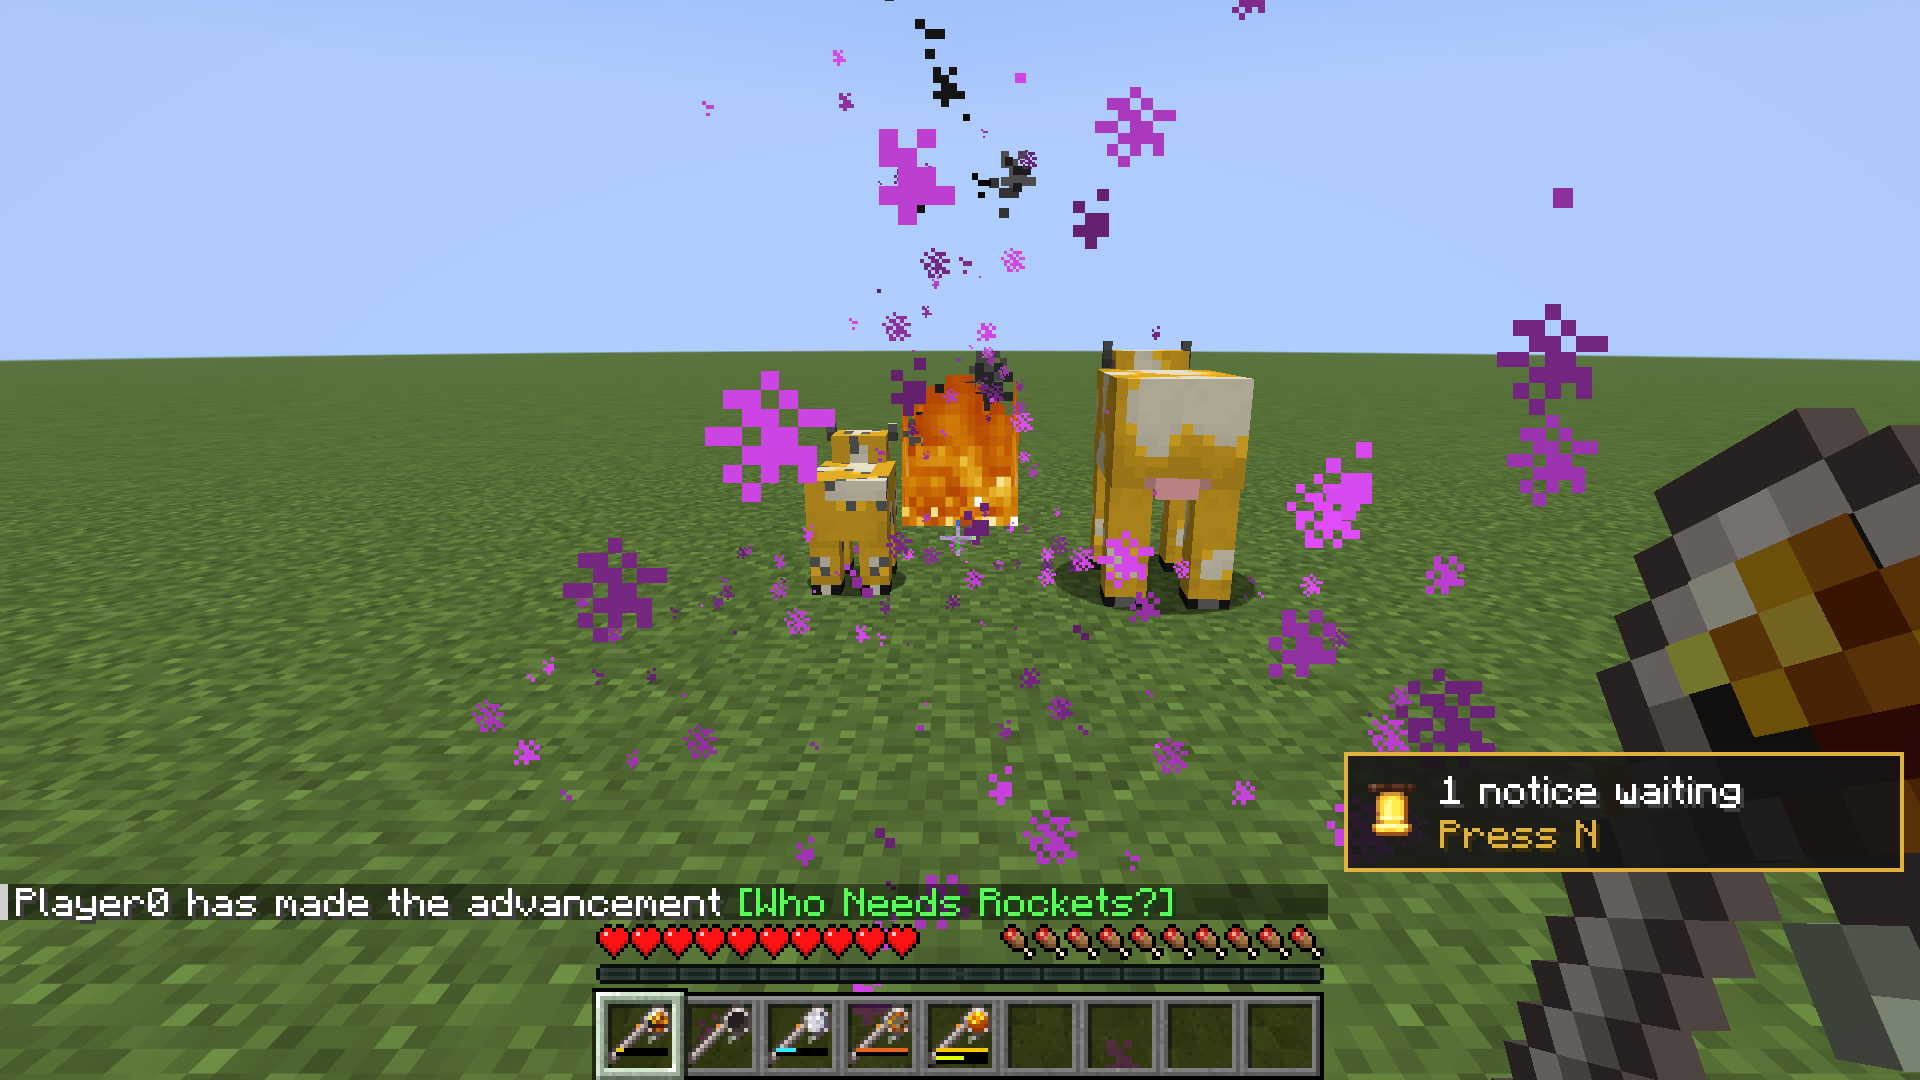
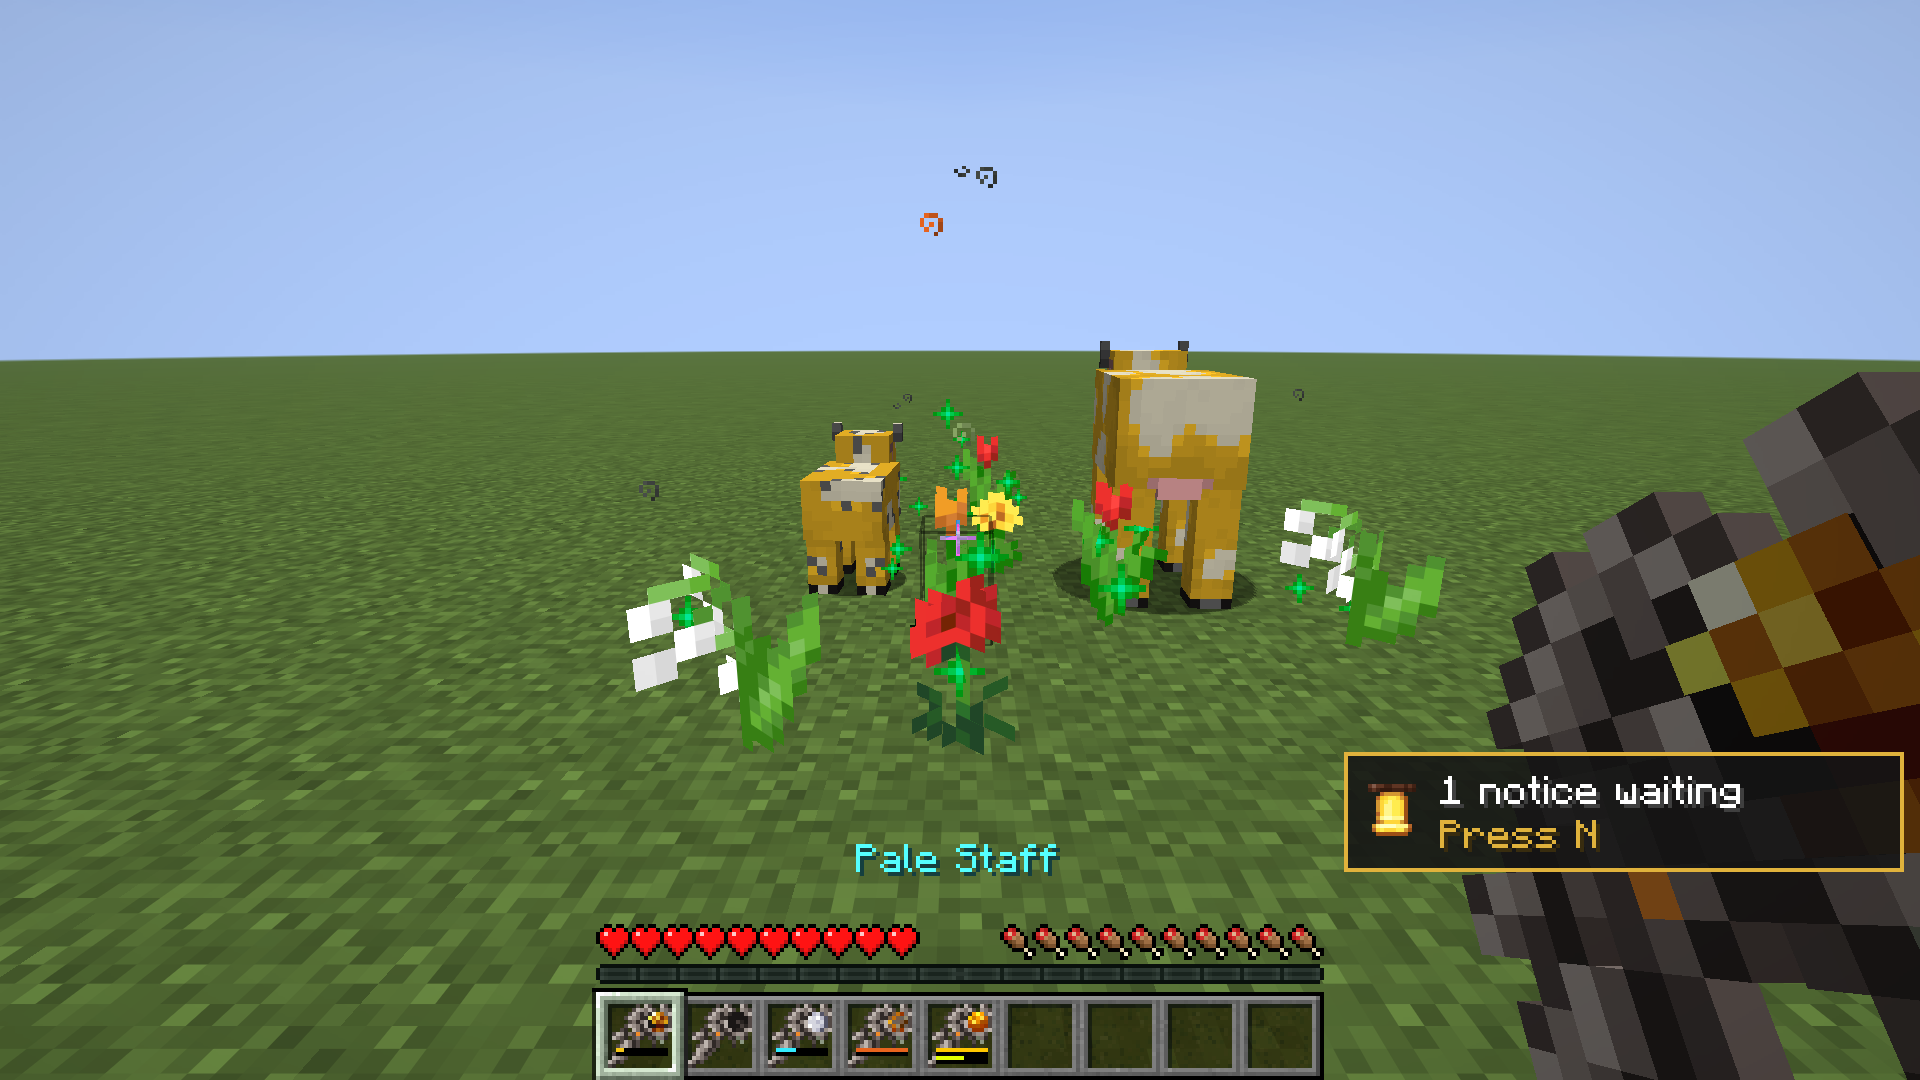
a gnarled staff, its head a root ball clutching the socket

diff --git a/generate_textures.py b/generate_textures.py
@@ -13,7 +13,7 @@ the staff's scale. Anything else, a block or an ingredient from another mod, is 
 in the imbuement's colour.
 
 The moobloom, the cow a golden dandelion bolt makes, is the game's own cow repainted. The icon is
-the staff with a golden dandelion set, on darkened pale oak bark.
+the staff with a golden dandelion set, on darkened pale moss.
 
 The charge bar sits two pixels above where the game draws durability, the same thirteen pixels
 wide, so the two read as a pair. Its fill is white and tinted with the imbuement's colour; there
@@ -39,34 +39,37 @@ MODELS = ASSETS / "models/item"
 
 PALETTE = {
 	".": None,
-	"o": (0x4f, 0x45, 0x42),  # bark outline
-	"d": (0x8f, 0x82, 0x7d),  # shaft shadow
-	"l": (0xc9, 0xbe, 0xb8),  # pale oak
-	"w": (0xec, 0xe6, 0xe2),  # highlight
+	"x": (0x30, 0x29, 0x27),  # crevice
+	"o": (0x52, 0x48, 0x45),  # bark in shadow
+	"d": (0x7c, 0x71, 0x6c),  # bark
+	"m": (0x9c, 0x91, 0x8b),  # bark, half lit
+	"l": (0xbd, 0xb3, 0xad),  # pale oak, lit
+	"w": (0xd9, 0xd2, 0xcd),  # highlight
 	"R": (0xf0, 0x8a, 0x2a),  # resin
-	"m": (0x7c, 0x86, 0x74),  # pale moss
-	"M": (0xa3, 0xad, 0x99),  # pale moss, lit
-	"s": (0x24, 0x1f, 0x1e),  # socket, in shadow
-	"S": (0x3a, 0x33, 0x31),  # socket, catching light
+	"g": (0x8c, 0x97, 0x82),  # pale moss, lit
+	"G": (0x6f, 0x79, 0x66),  # pale moss
+	"S": (0x1a, 0x16, 0x15),  # the hollow, deep
+	"s": (0x2a, 0x24, 0x22),  # the hollow, shallower
+	"h": (0x46, 0x3d, 0x3a),  # a root hair across it
 }
 
 STAFF = """
-...........ooo..
-..........olwlo.
-.........olssslo
-........olssssSo
-........odssssSo
-.......RldsssSSo
-......oldolSSSlo
-.....oldo..ooo..
-....oldo..mMo...
-...oldo...m.....
-..oldo..........
-.oldo...........
-oldo............
-odo.............
-oo..............
-................
+.......o.lo..lo.
+......olmdlo.mdo
+.....oldxdxSSSdl
+....olmdxxSSSSSo
+.....odxdlSShsSo
+....olmdxlSSShso
+...ox.ldxomSssml
+.olmxdoRdxxdmmo.
+.ldox.odx.oxGdx.
+...oldxo...o.g..
+..omldxo...x....
+..lmdxo.........
+.oldxo..........
+.lmdo...........
+ldxo............
+ox..............
 """
 
 # The socket's pixels: five across, corners cut. Rows 2 to 6, columns 10 to 14.
@@ -316,15 +319,15 @@ def moobloom(cow):
 
 
 def icon(jar):
-	"""The staff with a golden dandelion set, on the bark of the pale oak it is cut from, darkened so
-	the pale wood stands off it. Filled to the edge, as most of the suite's icons are, so it holds
-	its own in a list of them."""
-	bark = jar.texture_full("minecraft:block/pale_oak_log").crop((0, 0, 16, 16))
+	"""The staff with a golden dandelion set, on the pale moss of the garden floor, darkened so the
+	pale wood stands off it; bark behind bark lost the staff. Filled to the edge, as most of the
+	suite's icons are, so it holds its own in a list of them."""
+	moss = jar.texture_full("minecraft:block/pale_moss_block").crop((0, 0, 16, 16))
 	frame = Image.new("RGBA", (16, 16))
 	for x in range(16):
 		for y in range(16):
-			r, g, b, a = bark.getpixel((x, y))
-			frame.putpixel((x, y), (r * 45 // 100, g * 45 // 100, b * 45 // 100, 255))
+			r, g, b, a = moss.getpixel((x, y))
+			frame.putpixel((x, y), (r * 55 // 100, g * 55 // 100, b * 55 // 100, 255))
 	frame.alpha_composite(socketed(jar, "golden_dandelion"))
 	return frame.resize((128, 128), Image.NEAREST)
 

diff --git a/src/gametest/java/justfatlard/pale_staff/gametest/StaffWorks.java b/src/gametest/java/justfatlard/pale_staff/gametest/StaffWorks.java
@@ -84,6 +84,13 @@ public final class StaffWorks implements FabricClientGameTest {
 			server.runOnServer(s -> flame(s, connection.getServerPlayer(), origin));
 			server.runOnServer(s -> meadow(s.overworld(), origin));
 			server.runOnServer(s -> bloom(s, connection.getServerPlayer(), origin));
+
+			// The picture before anything noisier: no portal mist, no advancement toasts.
+			server.runOnServer(s -> showcase(s, connection.getServerPlayer(), origin));
+			server.runCommand("tp @a %d %d %d 0 15".formatted(origin.getX(), origin.getY(), origin.getZ() - 1));
+			context.waitTicks(30);
+			context.takeScreenshot(TestScreenshotOptions.of("bloom").withSize(1920, 1080).disableCounterPrefix());
+			server.runOnServer(s -> s.overworld().getEntitiesOfClass(Cow.class, new AABB(origin).inflate(10)).forEach(Entity::discard));
 			server.runOnServer(s -> meadow(s.overworld(), origin));
 			server.runOnServer(s -> gust(s, connection.getServerPlayer()));
 			context.waitTicks(40);
@@ -100,10 +107,6 @@ public final class StaffWorks implements FabricClientGameTest {
 			server.runCommand("tp @a %d %d %d 0 0".formatted(origin.getX(), origin.getY(), origin.getZ()));
 			context.waitTicks(5);
 
-			server.runOnServer(s -> showcase(s, connection.getServerPlayer(), origin));
-			server.runCommand("tp @a %d %d %d 0 15".formatted(origin.getX(), origin.getY(), origin.getZ() - 1));
-			context.waitTicks(30);
-			context.takeScreenshot(TestScreenshotOptions.of("bloom").withSize(1920, 1080).disableCounterPrefix());
 
 			// Wellspring: a drained staff, carried, has a charge back within one refill period.
 			server.runOnServer(s -> {
